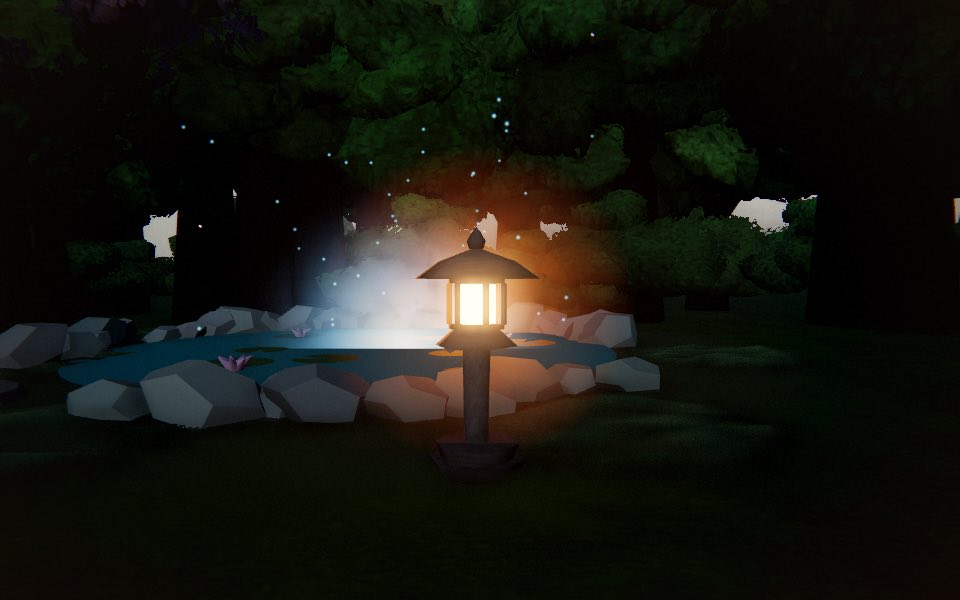
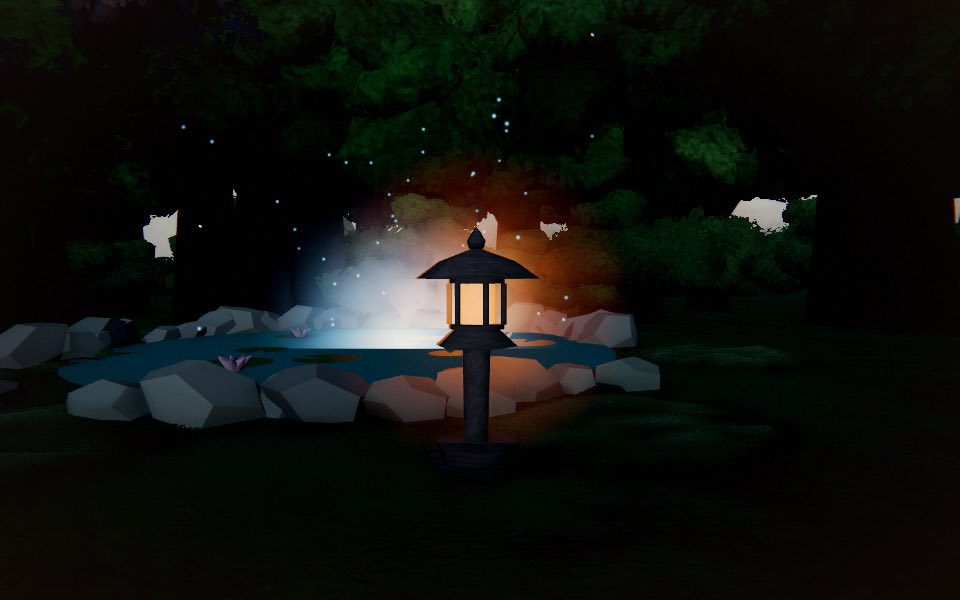
v-lanterns fix round 1: shared glow so stone lanterns add no live draws, drop street halo, perf deltas

Changed region(s): [[0.3438, 0.3, 0.625, 0.72]]

diff --git a/src/kit/lanterns/build.js b/src/kit/lanterns/build.js
@@ -36,11 +36,12 @@ export function buildStoneLantern(ctx, layout, p, { kind, height, kasaR, halo = 
     const m = mesh(geo, name === 'kasa' || name === 'hoju' ? dark : stone, name);
     group.add(m); parts[name] = m;
   }
-  const priv = tier !== 'far';
-  const lit = priv ? litWashi(washiTexture(km, { ribs: 0 }), { color: paperTint(p.flame), glowColor: flameColor(p.flame).getHex(), glow: base + always }) : null;
-  const lamp = mesh(L.lamp.geometry, lit || ownerGlow(ctx), 'lamp', false);
+  // The flame prism is the owner's shared, merged glow material (as classic): no extra draw, and
+  // the valley's own dusk curve drives it. Only the halo sprite is live.
+  const lit = null;
+  const lamp = mesh(L.lamp.geometry, ownerGlow(ctx), 'lamp', false);
   lamp.position.y = L.lamp.y; group.add(lamp); parts.lamp = lamp;
-  const live = [lamp];
+  const live = [];
   let sprite = null;
   if (halo) {
     sprite = haloSprite(km, { y: L.lamp.y, scale: halo.scale, color: flameColor(p.flame).getHex() });

diff --git a/src/kit/lanterns/index.js b/src/kit/lanterns/index.js
@@ -16,13 +16,13 @@ export const assets = [
   }),
   defineAsset({
     id: 'street-lamps', family: 'lanterns', lab: 'lanterns/kasuga', label: 'Street lamp',
-    params: { girth, flame },
+    params: { girth },
     sample: { index: 0, x: 0, z: 0 },
-    build: (ctx, layout, p) => buildStoneLantern(ctx, layout, p, { kind: 'street', height: 1.9, kasaR: 0.4, halo: ctx.tier === 'far' ? null : { scale: 1.2 } })
+    build: (ctx, layout, p) => buildStoneLantern(ctx, layout, p, { kind: 'street', height: 1.9, kasaR: 0.4, halo: null })
   }),
   defineAsset({
     id: 'courtyard-toro', family: 'lanterns', lab: 'lanterns/courtyard-toro', label: 'Courtyard toro',
-    params: { girth, flame },
+    params: { girth },
     sample: { index: 0, x: 0, z: 0 },
     build: (ctx, layout, p) => buildStoneLantern(ctx, layout, p, { kind: 'kasuga', height: 1.04, kasaR: 0.275, halo: null, always: 0.9 })
   }),

diff --git a/src/kit/lanterns/light.js b/src/kit/lanterns/light.js
@@ -11,7 +11,7 @@ const clamp01 = (x) => Math.min(1, Math.max(0, x));
 
 /**
  * How dark it is, 0 (sun well up) .. 1, from the hour of the day: the same
- * asymmetric sun path as Sky.updateDayNight() (daylight 6:00-19:12) pushed
+ * asymmetric sun path as Sky.updateDayNight() (the source of truth is `sky.sunDir`; keep this in step, it ignores weather) (daylight 6:00-19:12) pushed
  * through Countryside.update()'s `1 - sunUp * 5`.
  */
 export function nightnessAt(hour) {

diff --git a/docs/fable/handoff/v-lanterns.md b/docs/fable/handoff/v-lanterns.md
@@ -17,6 +17,9 @@ No waivers. toro keeps the 1.31 m height and 0.38 m kasa the cap platform assume
 
 ## Hot-file asks
 - Nothing to patch in countryside.js / interior.js / hidden_places.js. Note: `hidden_places.js` update() writes `poolToroMat` / `poolToroHaloMat` only when classic built them; the kit pool toro animates itself from `update(dt, t, env)` (env.hour).
-- `tools/kit_test.mjs` test "kit_check passes on a clean fixture family" copies the real src/kit, so it fails once any real family (with ids missing from its fixture inventory) is in the tree. Not a lane file; the Integrator should make the fixture ignore real families.
+- (The kit_test fixture issue is fixed on fable/integration.)
 - Materials: one new merged material (`kitMaterials.stone()`); everything else is `ctx.MAT` (`stoneDark`, `timberDark`, `vermilion`, `lanternGlow`, `lanternPaper`). Private lit-washi materials are per lantern and live (hero/mid), shared owner glow on far.
 - Helpers to consider moving to `src/kit/materials.js`: `litWashi`, `washiTexture`, `haloTexture`, `nightnessAt` (all in `lanterns/light.js`).
+
+## Draw calls (R36)
+Stone lanterns (toro, street-lamps, courtyard, pool) use the owner's shared, merged glow material for the flame prism, so they add no unmerged draws; only the halo sprite is live (toro and pool; street-lamps get no halo, as classic). Andon adds 1 live draw (private lit washi). Chochin is unchanged vs classic. perf_spots high, hour 22, classic vs all six swapped: street 711 -> 706 draws, 8,121,937 -> 8,142,071 tris; shrine 469 -> 456 draws, 7,066,446 -> 7,080,528 tris. Note per-lantern lamp-onset is now the valley's dusk curve (as classic); toro halo and pool halo keep the per-lantern onset.

diff --git a/docs/fable/status/v-lanterns.md b/docs/fable/status/v-lanterns.md
@@ -56,3 +56,12 @@ None. Chochin/andon/courtyard/pool shots not captured (interior and hidden place
 - pool-toro halo kept: shot from the Moon Pool seat distance (about 4 m) at 22 h reads clearly lit with a warm bloom; no widening needed.
 - kit_contract_test --family lanterns: 6 assets, 18 asset×tier builds, 509 checks, 0 failed (gpu: ANGLE (Apple, ANGLE Metal Renderer: Apple M5 Max, Unspecified Version), 1705 ms)
 - verify: 
+
+## Fix round 1
+- Draw cost (R36): stone-lantern flame prisms now use the owner's shared merged glow (`ownerGlow`), only the halo sprite is live; the street-lamp halo (not in classic) is removed; `flame` param dropped from street-lamps and courtyard-toro (nothing left for it to tint). Andon is the one private lit material (+1 draw); chochin unchanged.
+- perf_spots (high, hour 22, 1 boot), classic vs all six swapped: street 711 -> 706 draws, 8,121,937 -> 8,142,071 tris; shrine 469 -> 456 draws, 7,066,446 -> 7,080,528 tris. Net draws go down, well inside +6.
+- kit_contract_test --family lanterns: 6 assets, 18 builds, 483 checks, 0 failed.
+- footprint_golden classic: EQUAL; modular swap: 518 colliders, 65 platforms, 5 water rects, 4 exclusions, 25 anchors (same as classic).
+- verify: All checks passed.
+- Re-shot toro 6/12/18/22, courtyard-toro and pool-toro 18/22, street-lamps 12/22 (modular) and Read toro/street-lamps/pool 22 h: still clearly lit; flame prism a little less glassy (classic glow material), pool halo bloom unchanged.
+- Minors: nightnessAt comment names `sky.sunDir` as source of truth; handoff kit_test note updated, draw table added; final verify line filled above.
